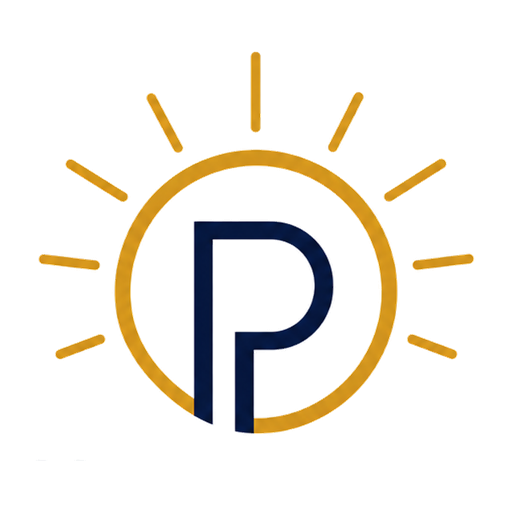
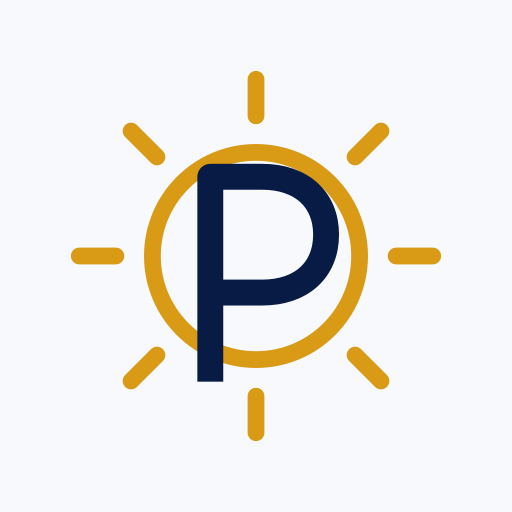
Redesign Lilletorget brand mark

diff --git a/templates/login.html b/templates/login.html
@@ -190,7 +190,7 @@
 <body>
     <main class="login-shell">
         <section class="brand-panel" aria-label="Lilletorget solsenter og parkering">
-            <img class="brand-logo" src="/static/lilletorget-login.png?v=20260527-login" alt="Lilletorget solsenter og parkering">
+            <img class="brand-logo" src="/static/lilletorget-wordmark.svg?v=1681" alt="Lilletorget soling og parkering">
         </section>
         <section class="login-card" aria-labelledby="login-title">
             <header>

diff --git a/templates/_header.html b/templates/_header.html
@@ -1,7 +1,7 @@
 <header class="site-header">
     <div class="brand-bar">
         <a class="brand-home brand-lilletorget" href="/status/omsetning" aria-label="Gå til status">
-            <img class="brand-logo brand-lilletorget-text-logo" src="/static/lilletorget-text.png?v=20260525-mobile1" alt="Lilletorget">
+            <img class="brand-logo brand-lilletorget-text-logo" src="/static/lilletorget-wordmark.svg?v=1681" alt="Lilletorget">
         </a>
         {% include "_nav.html" %}
     </div>

diff --git a/fibaro10ipad/app/static/ipad.js b/fibaro10ipad/app/static/ipad.js
@@ -134,7 +134,7 @@ function extraReferenceLabel(period, extra) {
 
 function driverMark(kind) {
   if (kind === "sun") {
-    return `<span class="driver-mark sun"><img src="/static/lilletorget-mark.png" alt=""></span>`;
+    return `<span class="driver-mark sun"><img src="/static/lilletorget-mark.svg?v=1681" alt=""></span>`;
   }
   return `<span class="driver-mark parking">P</span>`;
 }

diff --git a/online_dashboard/app/main.py b/online_dashboard/app/main.py
@@ -3697,11 +3697,11 @@ LOGIN_HTML = """<!doctype html>
   <meta name="viewport" content="width=device-width, initial-scale=1, viewport-fit=cover">
   <meta name="theme-color" content="#ffffff">
   <title>Lilletorget online</title>
-  <link rel="icon" type="image/png" href="/static/lilletorget-favicon.png">
+  <link rel="icon" type="image/png" href="/static/lilletorget-favicon.png?v=1681">
   <link rel="stylesheet" href="/appkit-assets/vendor/appkit-style.css?v=1">
   <link rel="stylesheet" href="/appkit-assets/vendor/highlights/highlight-blue.css?v=1">
   <link rel="stylesheet" href="/appkit-assets/lilletorget-appkit.css?v=1">
-  <link rel="stylesheet" href="/static/online-dashboard.css?v=1680">
+  <link rel="stylesheet" href="/static/online-dashboard.css?v=1681">
   <script src="/appkit-assets/lilletorget-appkit.js?v=1" defer></script>
 </head>
 <body class="appkit-mobile theme-light login-page">
@@ -3709,11 +3709,11 @@ LOGIN_HTML = """<!doctype html>
   <main class="appkit-login login-shell">
     <section class="login-brand">
       <div class="brand-frame">
-        <img src="/static/lilletorget-login.png" alt="Lilletorget solsenter og parkering">
+        <img src="/static/lilletorget-mark.svg?v=1681" alt="Lilletorget">
       </div>
     </section>
     <section class="appkit-login-panel login-card">
-      <img class="appkit-login-brand" src="/static/lilletorget-text.png" alt="Lilletorget">
+      <img class="appkit-login-brand" src="/static/lilletorget-wordmark.svg?v=1681" alt="Lilletorget">
       <p class="eyebrow">Lilletorget</p>
       <h1>Logg inn</h1>
       <p class="lead">Nøkkeltall for soling, parkering, lys og ventilasjon.</p>
@@ -3737,11 +3737,11 @@ DASHBOARD_HTML = """<!doctype html>
   <meta name="theme-color" content="#ffffff">
   <meta http-equiv="refresh" content="60">
   <title>Lilletorget nøkkeltall</title>
-  <link rel="icon" type="image/png" href="/static/lilletorget-favicon.png">
+  <link rel="icon" type="image/png" href="/static/lilletorget-favicon.png?v=1681">
   <link rel="stylesheet" href="/appkit-assets/vendor/appkit-style.css?v=1">
   <link rel="stylesheet" href="/appkit-assets/vendor/highlights/highlight-blue.css?v=1">
   <link rel="stylesheet" href="/appkit-assets/lilletorget-appkit.css?v=1">
-  <link rel="stylesheet" href="/static/online-dashboard.css?v=1680">
+  <link rel="stylesheet" href="/static/online-dashboard.css?v=1681">
   <script src="/appkit-assets/lilletorget-appkit.js?v=1" defer></script>
 </head>
 <body class="appkit-mobile theme-light">
@@ -3749,7 +3749,7 @@ DASHBOARD_HTML = """<!doctype html>
   <div id="page">
   <header class="appkit-header topbar">
     <a class="appkit-brand-action logo-link" href="/" aria-label="Til forsiden">
-      <img src="/static/lilletorget-mark.png" alt="">
+      <img src="/static/lilletorget-mark.svg?v=1681" alt="">
     </a>
     <div class="appkit-header-title">Dashboard<span class="appkit-header-subtitle">Lilletorget</span></div>
     <form method="post" action="/logg-ut">
@@ -3890,11 +3890,11 @@ DETAIL_HTML = """<!doctype html>
   <meta name="viewport" content="width=device-width, initial-scale=1, viewport-fit=cover">
   <meta name="theme-color" content="#ffffff">
   <title>{{ title }} · Lilletorget</title>
-  <link rel="icon" type="image/png" href="/static/lilletorget-favicon.png">
+  <link rel="icon" type="image/png" href="/static/lilletorget-favicon.png?v=1681">
   <link rel="stylesheet" href="/appkit-assets/vendor/appkit-style.css?v=1">
   <link rel="stylesheet" href="/appkit-assets/vendor/highlights/highlight-blue.css?v=1">
   <link rel="stylesheet" href="/appkit-assets/lilletorget-appkit.css?v=1">
-  <link rel="stylesheet" href="/static/online-dashboard.css?v=1680">
+  <link rel="stylesheet" href="/static/online-dashboard.css?v=1681">
   <script src="/appkit-assets/lilletorget-appkit.js?v=1" defer></script>
 </head>
 <body class="appkit-mobile theme-light">
@@ -3902,7 +3902,7 @@ DETAIL_HTML = """<!doctype html>
   <div id="page">
   <header class="appkit-header topbar">
     <a class="appkit-brand-action logo-link" href="/" aria-label="Til forsiden">
-      <img src="/static/lilletorget-mark.png" alt="">
+      <img src="/static/lilletorget-mark.svg?v=1681" alt="">
     </a>
     <div class="appkit-header-title">{{ title }}<span class="appkit-header-subtitle">Lilletorget</span></div>
     <form method="post" action="/logg-ut">

diff --git a/maintenance_mobile/app/main.py b/maintenance_mobile/app/main.py
@@ -241,9 +241,9 @@ async def manifest():
             "categories": ["business", "productivity", "utilities"],
             "prefer_related_applications": False,
             "icons": [
-                {"src": "/static/pwa-icon-192.png", "sizes": "192x192", "type": "image/png", "purpose": "any"},
-                {"src": "/static/pwa-icon-512.png", "sizes": "512x512", "type": "image/png", "purpose": "any"},
-                {"src": "/static/pwa-icon-maskable-512.png", "sizes": "512x512", "type": "image/png", "purpose": "maskable"},
+                {"src": "/static/pwa-icon-192.png?v=1681", "sizes": "192x192", "type": "image/png", "purpose": "any"},
+                {"src": "/static/pwa-icon-512.png?v=1681", "sizes": "512x512", "type": "image/png", "purpose": "any"},
+                {"src": "/static/pwa-icon-maskable-512.png?v=1681", "sizes": "512x512", "type": "image/png", "purpose": "maskable"},
             ],
             "launch_handler": {"client_mode": "navigate-existing"},
         },
@@ -381,8 +381,8 @@ def login_html(error: str = "", *, next_path: str = "/") -> str:
   <meta name="apple-mobile-web-app-title" content="Vedlikehold">
   <title>Logg inn · Vedlikehold</title>
   <link rel="manifest" href="/manifest.webmanifest">
-  <link rel="apple-touch-icon" href="/static/pwa-icon-512.png">
-  <link rel="icon" type="image/png" href="/static/lilletorget-favicon.png">
+  <link rel="apple-touch-icon" href="/static/pwa-icon-512.png?v=1681">
+  <link rel="icon" type="image/png" href="/static/lilletorget-favicon.png?v=1681">
   <link rel="stylesheet" href="/appkit-assets/vendor/appkit-style.css?v=1">
   <link rel="stylesheet" href="/appkit-assets/vendor/highlights/highlight-blue.css?v=1">
   <link rel="stylesheet" href="/appkit-assets/lilletorget-appkit.css?v=1">
@@ -393,10 +393,10 @@ def login_html(error: str = "", *, next_path: str = "/") -> str:
   <div id="preloader" aria-hidden="true"></div>
   <main class="appkit-login login-screen">
     <section class="login-brand">
-      <img src="/static/lilletorget-login.png" alt="Lilletorget">
+      <img src="/static/lilletorget-mark.svg?v=1681" alt="Lilletorget">
     </section>
     <section class="appkit-login-panel login-panel">
-      <img class="appkit-login-brand" src="/static/lilletorget-text.png" alt="Lilletorget">
+      <img class="appkit-login-brand" src="/static/lilletorget-wordmark.svg?v=1681" alt="Lilletorget">
       <p class="eyebrow">Lilletorget</p>
       <h1>Vedlikehold</h1>
       <p class="muted">Samme brukere som Fibaro10. Alle innloggede brukere kan registrere arbeid og observasjoner.</p>
@@ -423,8 +423,8 @@ INDEX_HTML = """<!doctype html>
   <meta name="apple-mobile-web-app-title" content="Vedlikehold">
   <title>Lilletorget Vedlikehold</title>
   <link rel="manifest" href="/manifest.webmanifest">
-  <link rel="apple-touch-icon" href="/static/pwa-icon-512.png">
-  <link rel="icon" type="image/png" href="/static/lilletorget-favicon.png">
+  <link rel="apple-touch-icon" href="/static/pwa-icon-512.png?v=1681">
+  <link rel="icon" type="image/png" href="/static/lilletorget-favicon.png?v=1681">
   <link rel="stylesheet" href="/appkit-assets/vendor/appkit-style.css?v=1">
   <link rel="stylesheet" href="/appkit-assets/vendor/highlights/highlight-blue.css?v=1">
   <link rel="stylesheet" href="/appkit-assets/lilletorget-appkit.css?v=1">
@@ -437,7 +437,7 @@ INDEX_HTML = """<!doctype html>
   <div id="page">
   <header class="appkit-header app-topbar">
     <button id="backButton" class="appkit-brand-action brand-logo" type="button" aria-label="Oppgaver">
-      <img src="/static/lilletorget-mark.png" alt="">
+      <img src="/static/lilletorget-mark.svg?v=1681" alt="">
     </button>
     <div class="appkit-header-title"><span id="appHeaderTitle">Vedlikehold</span><span id="appHeaderSubtitle" class="appkit-header-subtitle">Lilletorget</span></div>
     <button id="profileButton" class="appkit-header-action user-button" type="button" title="Bruker" aria-label="Åpne brukerprofil">

diff --git a/alarm_mobile/app/main.py b/alarm_mobile/app/main.py
@@ -265,9 +265,9 @@ async def manifest():
             "categories": ["business", "productivity", "utilities"],
             "prefer_related_applications": False,
             "icons": [
-                {"src": "/static/pwa-icon-192.png", "sizes": "192x192", "type": "image/png", "purpose": "any"},
-                {"src": "/static/pwa-icon-512.png", "sizes": "512x512", "type": "image/png", "purpose": "any"},
-                {"src": "/static/pwa-icon-maskable-512.png", "sizes": "512x512", "type": "image/png", "purpose": "maskable"},
+                {"src": "/static/pwa-icon-192.png?v=1681", "sizes": "192x192", "type": "image/png", "purpose": "any"},
+                {"src": "/static/pwa-icon-512.png?v=1681", "sizes": "512x512", "type": "image/png", "purpose": "any"},
+                {"src": "/static/pwa-icon-maskable-512.png?v=1681", "sizes": "512x512", "type": "image/png", "purpose": "maskable"},
             ],
             "launch_handler": {"client_mode": "navigate-existing"},
         },
@@ -407,8 +407,8 @@ def login_html(error: str, next_path: str) -> str:
   <meta name="apple-mobile-web-app-title" content="Alarm">
   <title>Logg inn · Alarm</title>
   <link rel="manifest" href="/manifest.webmanifest">
-  <link rel="apple-touch-icon" href="/static/pwa-icon-512.png">
-  <link rel="icon" type="image/png" href="/static/lilletorget-favicon.png">
+  <link rel="apple-touch-icon" href="/static/pwa-icon-512.png?v=1681">
+  <link rel="icon" type="image/png" href="/static/lilletorget-favicon.png?v=1681">
   <link rel="stylesheet" href="/appkit-assets/vendor/appkit-style.css?v=1">
   <link rel="stylesheet" href="/appkit-assets/vendor/highlights/highlight-blue.css?v=1">
   <link rel="stylesheet" href="/appkit-assets/lilletorget-appkit.css?v=1">
@@ -419,7 +419,7 @@ def login_html(error: str, next_path: str) -> str:
   <div id="preloader" aria-hidden="true"></div>
   <main class="appkit-login login-screen">
     <section class="appkit-login-panel login-panel">
-      <img class="login-logo appkit-login-brand" src="/static/lilletorget-text.png" alt="Lilletorget">
+      <img class="login-logo appkit-login-brand" src="/static/lilletorget-wordmark.svg?v=1681" alt="Lilletorget">
       <p class="eyebrow">Lilletorget</p>
       <h1>Alarm</h1>
       <p class="muted">Logg inn med samme bruker som i Fibaro10.</p>
@@ -446,8 +446,8 @@ INDEX_HTML = """<!doctype html>
   <meta name="apple-mobile-web-app-title" content="Alarm">
   <title>Lilletorget Alarm</title>
   <link rel="manifest" href="/manifest.webmanifest">
-  <link rel="apple-touch-icon" href="/static/pwa-icon-512.png">
-  <link rel="icon" type="image/png" href="/static/lilletorget-favicon.png">
+  <link rel="apple-touch-icon" href="/static/pwa-icon-512.png?v=1681">
+  <link rel="icon" type="image/png" href="/static/lilletorget-favicon.png?v=1681">
   <link rel="stylesheet" href="/appkit-assets/vendor/appkit-style.css?v=1">
   <link rel="stylesheet" href="/appkit-assets/vendor/highlights/highlight-blue.css?v=1">
   <link rel="stylesheet" href="/appkit-assets/lilletorget-appkit.css?v=1">
@@ -459,7 +459,7 @@ INDEX_HTML = """<!doctype html>
   <div id="preloader" aria-hidden="true"></div>
   <div id="page">
   <header class="appkit-header topbar">
-    <a class="appkit-brand-action" href="/" aria-label="Alarmstatus"><img class="brand-mark" src="/static/lilletorget-mark.png" alt=""></a>
+    <a class="appkit-brand-action" href="/" aria-label="Alarmstatus"><img class="brand-mark" src="/static/lilletorget-mark.svg?v=1681" alt=""></a>
     <div class="appkit-header-title brand-copy"><strong>Alarmstatus</strong><span id="lastUpdated" class="appkit-header-subtitle">Henter status</span></div>
     <button id="refreshButton" class="appkit-header-action icon-button" type="button" aria-label="Oppdater" title="Oppdater">
       <svg viewBox="0 0 24 24" aria-hidden="true"><path d="M20 11a8.1 8.1 0 0 0-15.5-2M4 4v5h5M4 13a8.1 8.1 0 0 0 15.5 2M20 20v-5h-5"/></svg>

diff --git a/build_log.py b/build_log.py
@@ -12,6 +12,35 @@ APP_BUILD = os.getenv("APP_BUILD", DEFAULT_BUILD)
 BUILD_LOG = [
     {
         "version": "1",
+        "build": "1681",
+        "date": "08.08.2026",
+        "headline": "Lilletorget har fÃ¥tt et lettere og mer presist merke",
+        "title": "Sol og parkering er samlet i et moderne, skalerbart logosystem",
+        "description": (
+            "Logoideen er beholdt, men merket er tegnet pÃ¥ nytt som vektor med fÃ¦rre "
+            "solstrÃ¥ler, jevnere linjer og bedre optisk balanse. Toppfeltet bruker en "
+            "transparent kompaktvariant, mens innlogging, PWA-ikoner og full logo fÃ¸lger "
+            "det samme formsprÃ¥ket."
+        ),
+        "applications": [
+            "Online dashboard: nytt kompakt merke og ny full logo pÃ¥ innlogging.",
+            "Vedlikehold og Alarm mobil: samme moderniserte merke og PWA-ikoner.",
+            "Fibaro10 og iPad: oppdatert merke i toppfelt og felles navigasjon.",
+            "Felles profil: vektorvariant, ensfarget minivariant og regenererbare PNG-ikoner.",
+        ],
+        "request": "gjÃ¸r dette",
+        "work_duration": "ca. 45 minutter",
+        "credits_used": "Ikke tilgjengelig fra lokal Codex-kjÃ¸ring",
+        "changes": [
+            "Tegner Lilletorget-merket pÃ¥ nytt med Ã¥tte kraftigere strÃ¥ler og jevne strekvekter.",
+            "Lager horisontal full logo og en ensfarget variant for smÃ¥ flater.",
+            "Bygger favicon og PWA-ikoner pÃ¥ nytt med riktige marger for vanlige og maskable ikoner.",
+            "Legger ved et deterministisk byggeskript for alle rastervariantene.",
+            "Legger til tester som sikrer at de aktive mobilappene bruker vektorprofilen.",
+        ],
+    },
+    {
+        "version": "1",
         "build": "1680",
         "date": "08.08.2026",
         "headline": "Mobilundersidene bruker bare den faste topplinjen",

diff --git a/tests/test_mobile_appkit_theme.py b/tests/test_mobile_appkit_theme.py
@@ -48,3 +48,17 @@ def test_online_detail_pages_use_the_fixed_header_as_the_only_title() -> None:
     assert '<div class="appkit-header-title">{{ title }}' in DETAIL_HTML
     assert '<span class="appkit-header-subtitle">Lilletorget</span>' in DETAIL_HTML
     assert '<section class="detail-hero">' not in DETAIL_HTML
+
+
+def test_mobile_shells_use_the_vector_brand_mark() -> None:
+    for name in ("lilletorget-mark.svg", "lilletorget-mark-mono.svg", "lilletorget-wordmark.svg"):
+        source = (ROOT / "static" / name).read_text(encoding="utf-8")
+        assert source.startswith("<svg")
+        assert 'viewBox="' in source
+
+    for html in (ALARM_HTML, MAINTENANCE_HTML, DASHBOARD_HTML, DETAIL_HTML):
+        assert "/static/lilletorget-mark.svg?v=1681" in html
+        assert "/static/lilletorget-mark.png" not in html
+
+    assert "/static/lilletorget-wordmark.svg?v=1681" in LOGIN_HTML
+    assert "/static/lilletorget-login.png" not in LOGIN_HTML

diff --git a/fibaro10ipad/app/main.py b/fibaro10ipad/app/main.py
@@ -331,7 +331,7 @@ def login_html(error: str = "") -> str:
 <body class="login-body">
   <main class="login-screen">
     <section class="login-brand" aria-label="Lilletorget iPad">
-      <img src="/static/lilletorget-mark.png" alt="">
+      <img src="/static/lilletorget-mark.svg?v=1681" alt="">
       <p>Lilletorget</p>
       <h1>iPad</h1>
       <span>Driftsflate for 13 tommer iPad Pro</span>
@@ -372,7 +372,7 @@ INDEX_HTML = f"""<!doctype html>
   <main class="ipad-app">
     <aside class="app-rail" aria-label="Hovedmeny">
       <a class="rail-brand" href="/" aria-label="Lilletorget iPad">
-        <img src="/static/lilletorget-mark.png" alt="">
+        <img src="/static/lilletorget-mark.svg?v=1681" alt="">
         <span>Lilletorget</span>
         <small>iPad</small>
       </a>

diff --git a/tests/test_pwa_contracts.py b/tests/test_pwa_contracts.py
@@ -84,9 +84,9 @@ def test_pwa_head_is_injected_once() -> None:
 
 
 def test_brand_icon_is_square_and_nonempty() -> None:
-    assert Path(PWA_ICON_192_PATH).stat().st_size > 10_000
-    assert Path(PWA_ICON_512_PATH).stat().st_size > 50_000
-    assert Path(PWA_MASKABLE_ICON_PATH).stat().st_size > 30_000
+    assert Path(PWA_ICON_192_PATH).stat().st_size > 2_000
+    assert Path(PWA_ICON_512_PATH).stat().st_size > 10_000
+    assert Path(PWA_MASKABLE_ICON_PATH).stat().st_size > 8_000
     assert png_dimensions(PWA_ICON_192_PATH) == (192, 192)
     assert png_dimensions(PWA_ICON_512_PATH) == (512, 512)
     assert png_dimensions(PWA_MASKABLE_ICON_PATH) == (512, 512)
